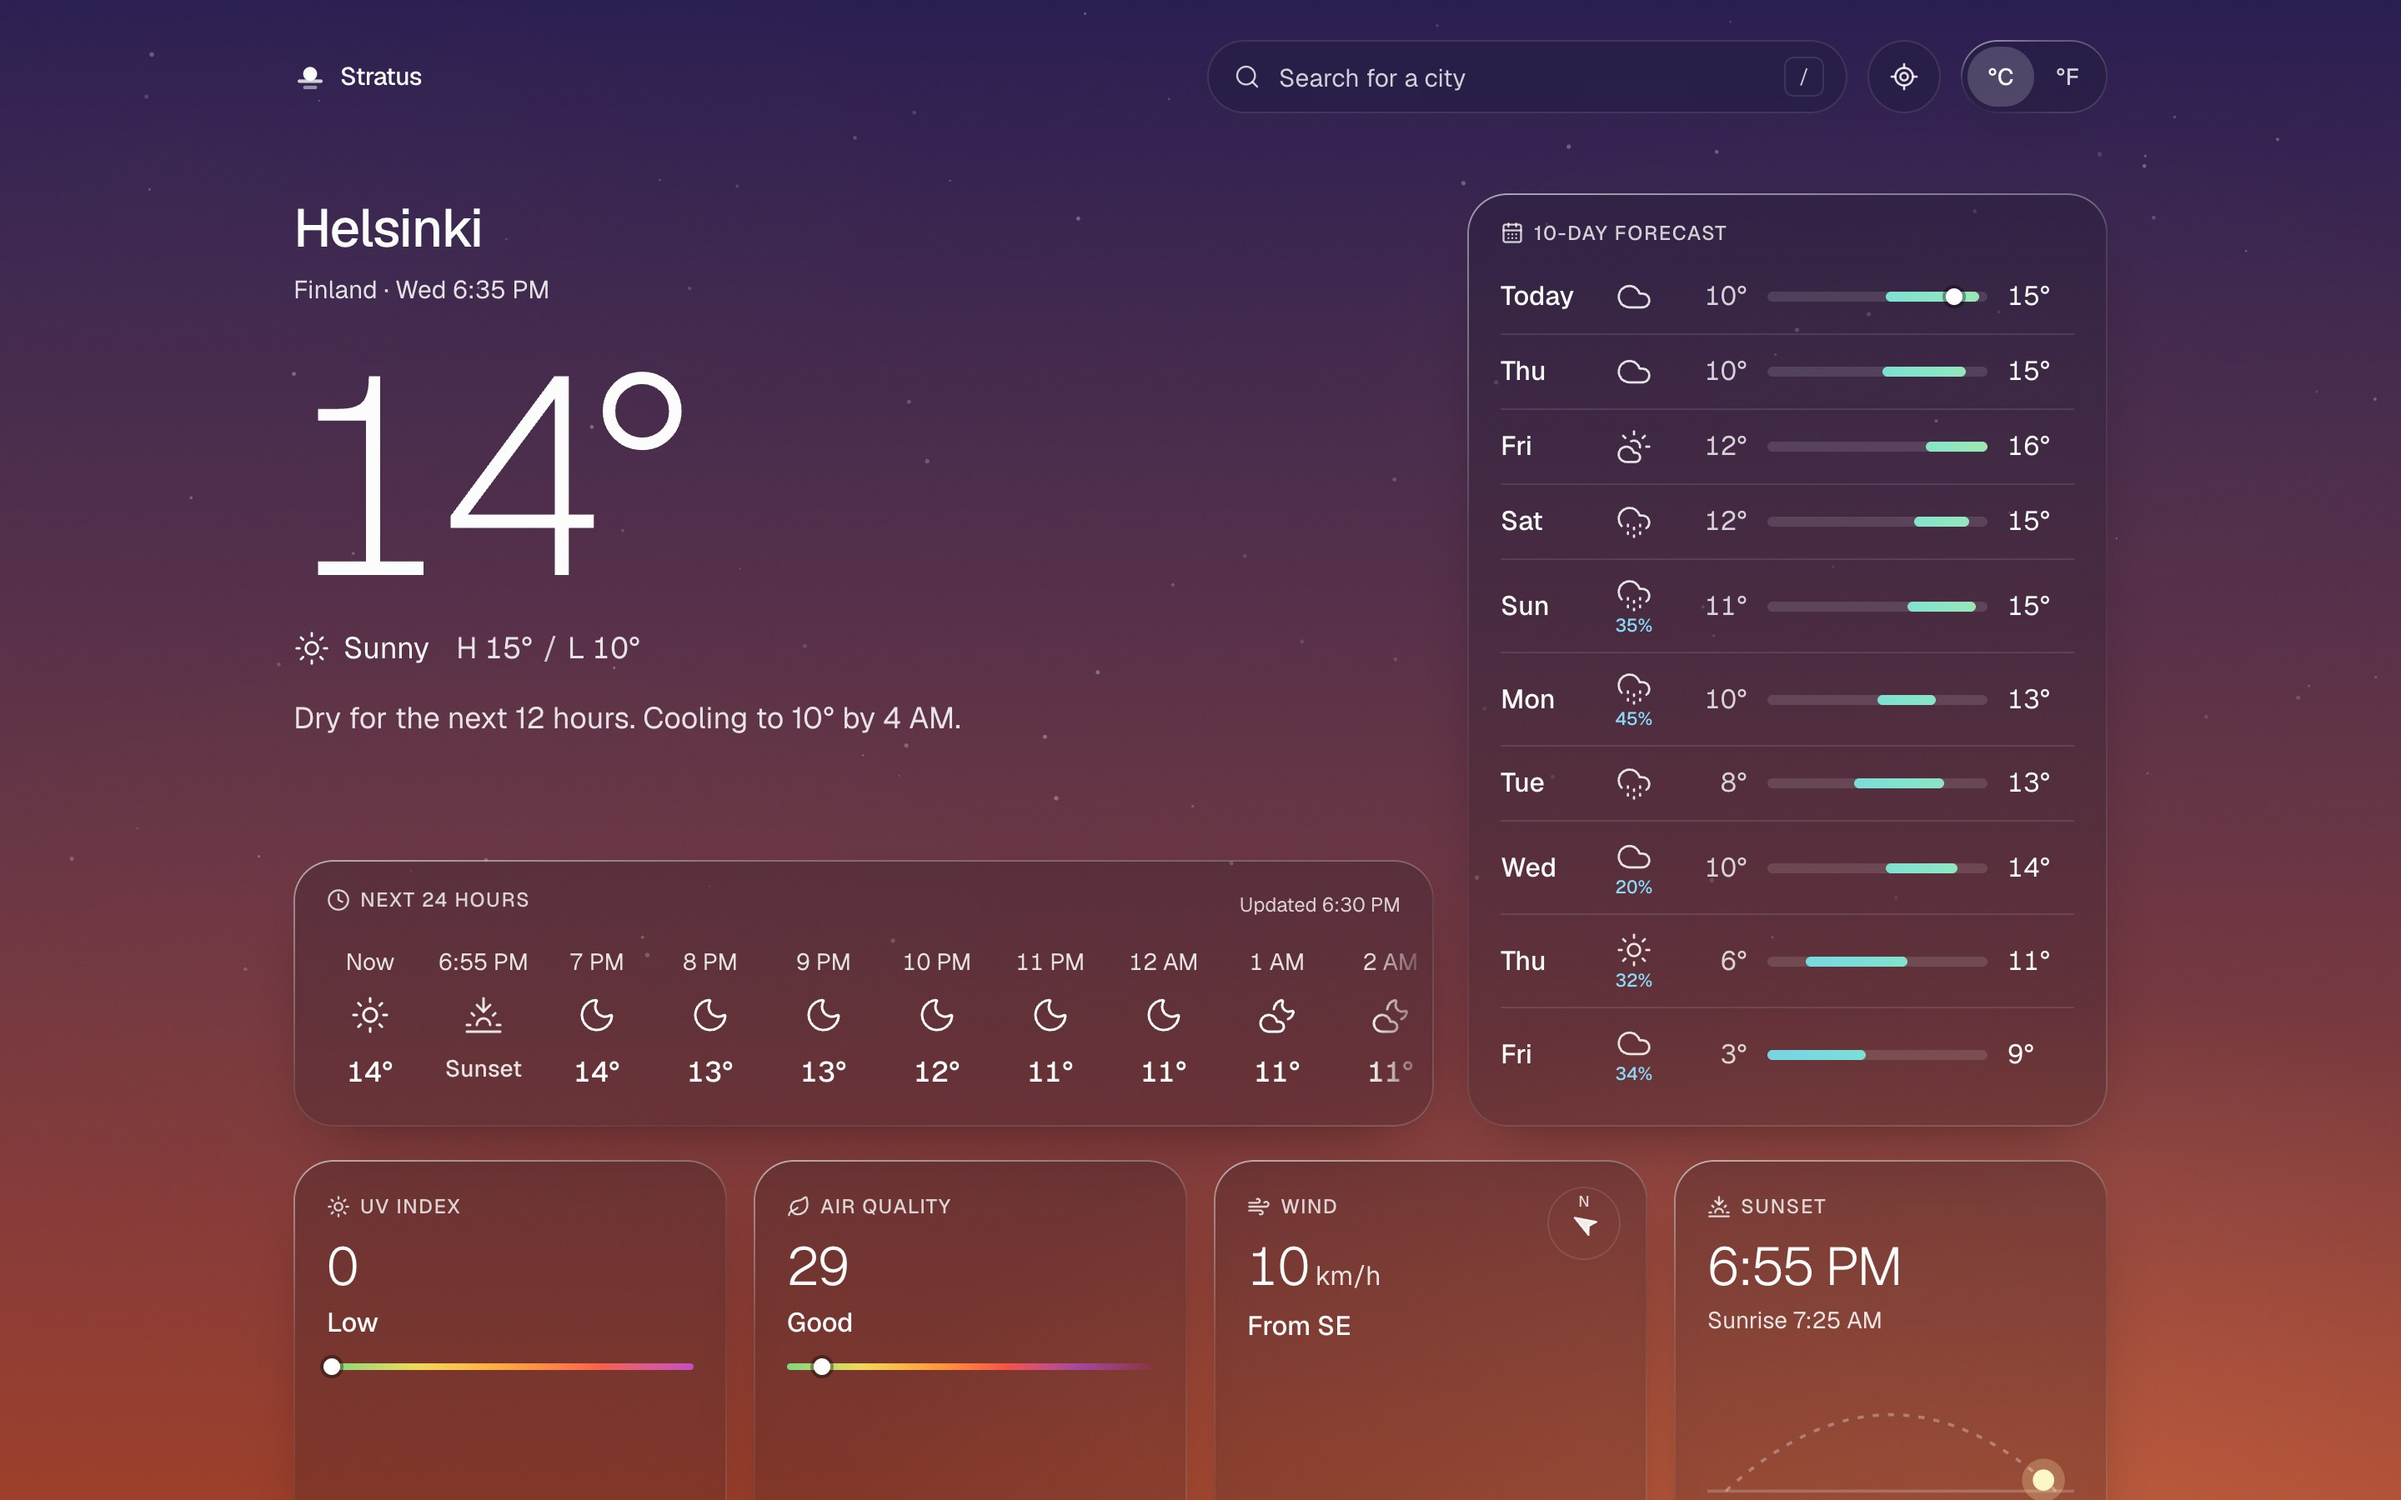
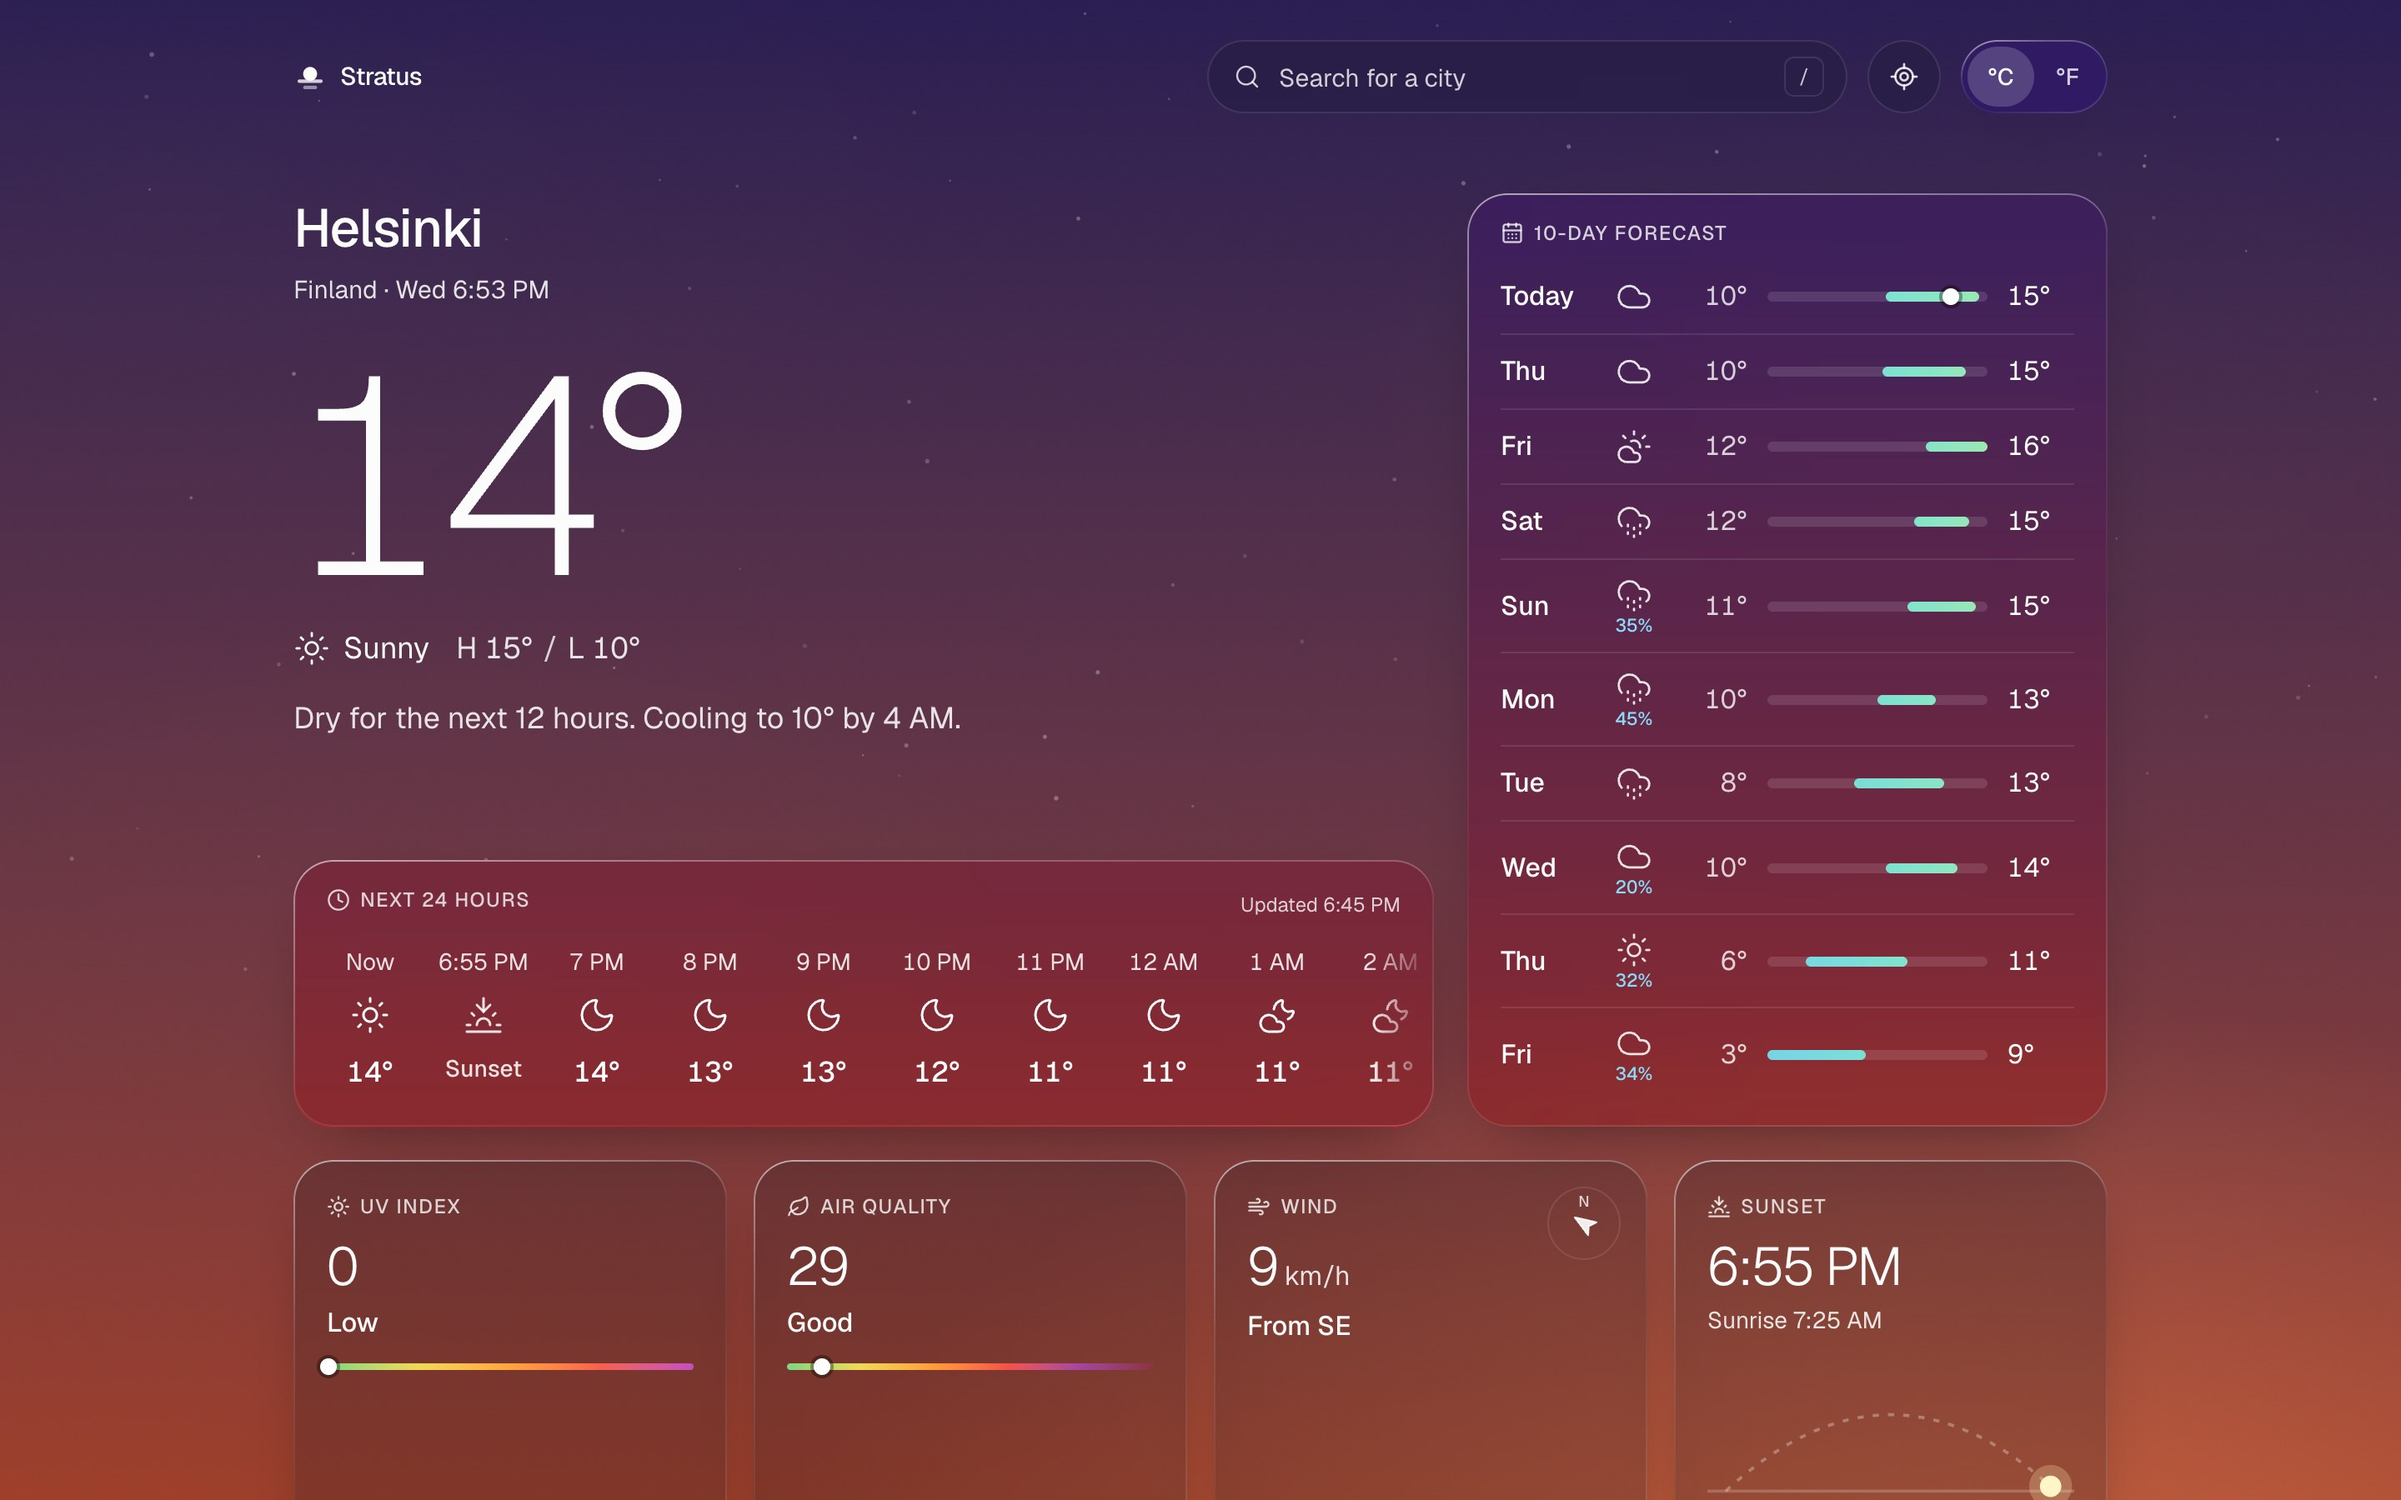
Refresh screenshots with the frosted glass panels

diff --git a/src/app/about/page.tsx b/src/app/about/page.tsx
@@ -80,7 +80,7 @@ const DECISIONS: ReadonlyArray<{ title: string; body: string }> = [
 const DESKTOP_SHOTS: ReadonlyArray<{ image: StaticImageData; alt: string; caption: string }> = [
   {
     image: desktopRain,
-    alt: "Chicago in light rain on a grey morning",
+    alt: "Chicago in the rain on a grey morning",
     caption: "Rain on the way",
   },
   { image: desktopNight, alt: "Jakarta on a clear night with stars", caption: "Clear night" },
@@ -94,7 +94,7 @@ const DESKTOP_SHOTS: ReadonlyArray<{ image: StaticImageData; alt: string; captio
 
 const MOBILE_SHOTS: ReadonlyArray<{ image: StaticImageData; alt: string }> = [
   { image: mobileDusk, alt: "Helsinki at dusk on a phone" },
-  { image: mobileRain, alt: "Chicago in light rain on a phone" },
+  { image: mobileRain, alt: "Chicago in the rain on a phone" },
   { image: mobileDetails, alt: "Detail cards on a phone" },
 ];
 

diff --git a/README.md b/README.md
@@ -8,13 +8,13 @@ Built with Next.js 16, React 19, TypeScript and Tailwind CSS 4. Weather data com
 
 ![Stratus showing Helsinki at dusk: 14°, sunny, with the hourly and 10-day forecast](docs/screenshots/desktop-dusk.jpg)
 
-| Rain, daytime                                                                 | Clear, night                                                               |
-| ----------------------------------------------------------------------------- | -------------------------------------------------------------------------- |
-| ![Chicago in light rain on a grey morning](docs/screenshots/desktop-rain.jpg) | ![Jakarta on a clear night with stars](docs/screenshots/desktop-night.jpg) |
+| Rain, daytime                                                               | Clear, night                                                               |
+| --------------------------------------------------------------------------- | -------------------------------------------------------------------------- |
+| ![Chicago in the rain on a grey morning](docs/screenshots/desktop-rain.jpg) | ![Jakarta on a clear night with stars](docs/screenshots/desktop-night.jpg) |
 
 <p>
   <img src="docs/screenshots/mobile-dusk.jpg" width="32%" alt="Helsinki at dusk on a phone">
-  <img src="docs/screenshots/mobile-rain.jpg" width="32%" alt="Chicago in light rain on a phone">
+  <img src="docs/screenshots/mobile-rain.jpg" width="32%" alt="Chicago in the rain on a phone">
   <img src="docs/screenshots/mobile-details.jpg" width="32%" alt="Detail cards on a phone: UV, air quality, wind, sunset, feels like, humidity, precipitation, visibility">
 </p>
 
